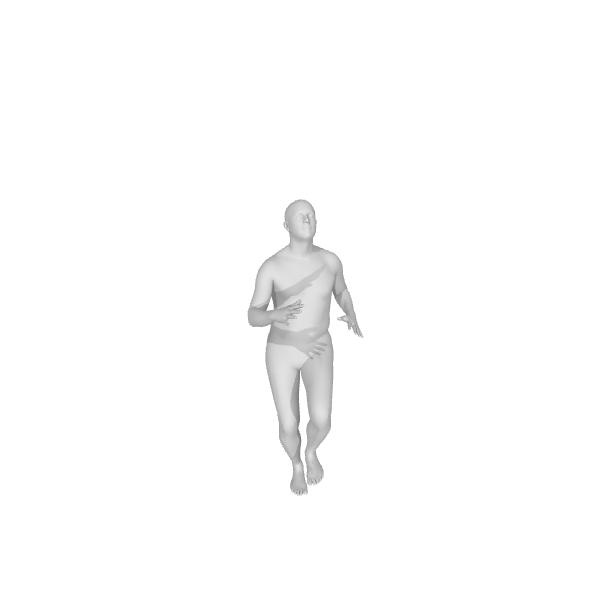
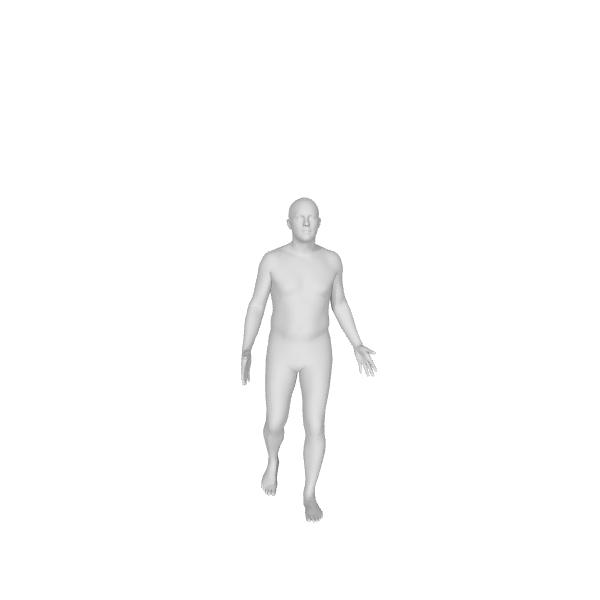
cosine network

Changed region(s): [[0.39, 0.33, 0.63, 0.87], [0.51, 0.45, 0.54, 0.48]]

diff --git a/models/model.py b/models/model.py
@@ -119,11 +119,11 @@ class CosNetwork(torch.nn.Module):
         x = F.leaky_relu(self.fc2(x))
         x = F.leaky_relu(self.fc3(x))
         x0 = x
-        x = F.leaky_relu(self.fc4(x)) + x0
+        x = torch.cos(F.leaky_relu(self.fc4(x))) + x0
         x1 = x
-        x = F.leaky_relu(self.fc5(x)) + x1
+        x = torch.cos(F.leaky_relu(self.fc5(x))) + x1
         x2 = x
-        x = F.leaky_relu(self.fc6(x)) + x2
+        x = torch.cos(F.leaky_relu(self.fc6(x))) + x2
         x = self.fc7(x)
 
         # get latent code params
@@ -137,11 +137,11 @@ class CosNetwork(torch.nn.Module):
         x = F.leaky_relu(self.dc2(x))
         x = F.leaky_relu(self.dc3(x))
         x3 = x
-        x = F.leaky_relu(self.dc4(x)) + x3
+        x = torch.cos(F.leaky_relu(self.dc4(x))) + x3
         x4 = x 
-        x = F.leaky_relu(self.dc5(x)) + x4
+        x = torch.cos(F.leaky_relu(self.dc5(x))) + x4
         x5 = x
-        x = F.leaky_relu(self.dc6(x)) + x5
+        x = torch.cos(F.leaky_relu(self.dc6(x))) + x5
         x = self.dc7(x)
 
         return x, mu, logvar
@@ -152,11 +152,11 @@ class CosNetwork(torch.nn.Module):
         x = F.leaky_relu(self.dc2(x))
         x = F.leaky_relu(self.dc3(x))
         x3 = x
-        x = F.leaky_relu(self.dc4(x)) + x3
+        x = torch.cos(F.leaky_relu(self.dc4(x))) + x3
         x4 = x 
-        x = F.leaky_relu(self.dc5(x)) + x4
+        x = torch.cos(F.leaky_relu(self.dc5(x))) + x4
         x5 = x
-        x = F.leaky_relu(self.dc6(x)) + x5
+        x = torch.cos(F.leaky_relu(self.dc6(x))) + x5
         x = self.dc7(x)
 
         return x

diff --git a/test.py b/test.py
@@ -8,7 +8,7 @@ from models.model import Network
 import matplotlib.pyplot as plt
 
 model = Network(63, 28).to(device)
-model.load_state_dict(torch.load('weights/ckpt(2).pth', map_location = 'cpu'))
+model.load_state_dict(torch.load('weights/cafe2.pth', map_location = 'cpu'))
 
 data = joblib.load('data/db/database.pt')
 pose = torch.tensor(data['pose'][98:248, 3:66]).float().to(device)
@@ -23,17 +23,17 @@ render_pose_sequence(pred, fps = 120, out_dir="renderings/pred.mp4")
 
 print('Running interpolation test.')
 
-pose0 = torch.tensor(data['pose'][[102300], 3:66]).float().to(device)
+pose0 = torch.tensor(data['pose'][[105300], 3:66]).float().to(device)
 pose1 = torch.tensor(data['pose'][[1600], 3:66]).float().to(device)
 
-sequence = torch.cat([w*pose0 + (1-w)*pose1 for w in np.linspace(0, 1, 150)])
+sequence = torch.cat([w*pose0 + (1-w)*pose1 for w in np.linspace(0, 1, 250)])
 sequence_p, _, _ = model(sequence)
 
 render_pose(pose0, out_dir = 'renderings/pose0.jpg')
 render_pose(pose1, out_dir = 'renderings/pose1.jpg')
 
-render_pose_sequence(sequence, fps = 60, out_dir="renderings/interpolation_gt.mp4")
-render_pose_sequence(sequence_p, fps = 60, out_dir="renderings/interpolation_p.mp4")
+render_pose_sequence(sequence, fps = 120, out_dir="renderings/interpolation_gt.mp4")
+render_pose_sequence(sequence_p, fps = 120, out_dir="renderings/interpolation_p.mp4")
 
 def pred_set(nx=4, ny = 4):
     n = nx*ny

diff --git a/train.py b/train.py
@@ -6,15 +6,15 @@ from utils.loaders import DatasetClass
 from config import device
 
 from torch.utils.data import DataLoader
-from models.model import Network
+from models.model import Network, CosNetwork
 from utils.trainer import train
 
 import matplotlib.pyplot as plt
 
-epochs = 200
+epochs = 50
 lr = 1e-3
 train_split = .8
-batch_size = 32
+batch_size = 4096
 
 data = joblib.load('data/db/database.pt')
 
@@ -31,12 +31,12 @@ val_data = {'pose':pose[sep:, :], 'trans':trans[sep:, :]}
 train_loader = DataLoader(DatasetClass(train_data), batch_size = batch_size, num_workers=2)
 val_loader = DataLoader(DatasetClass(val_data), batch_size = batch_size, num_workers=2)
 
-model = Network(63, 28).to(device)
+model = CosNetwork(63, 28).to(device)
 model.load_state_dict(torch.load('weights/ckpt.pth', map_location = 'cpu'))
 
-# optimizer = torch.optim.SGD(model.parameters(), lr = lr)
+optimizer = torch.optim.SGD(model.parameters(), lr = lr)
 
-optimizer = torch.optim.LBFGS(model.parameters(), lr = lr, max_iter = 50, line_search_fn='strong_wolfe')
+# optimizer = torch.optim.LBFGS(model.parameters(), lr = lr, max_iter = 50, line_search_fn='strong_wolfe')
 scheduler = torch.optim.lr_scheduler.ReduceLROnPlateau(optimizer, factor = .5, patience = 40)
 train_hist, val_hist = train(model, train_loader, val_loader, optimizer, scheduler, epochs)
 

diff --git a/utils/trainer.py b/utils/trainer.py
@@ -39,26 +39,26 @@ def fit(model, loader, optimizer, scheduler):
     running_kl = 0.0
 
     for i, data in enumerate(loader):
-        def closure():
-            optimizer.zero_grad()
+        
+        optimizer.zero_grad()
 
-            pose = data['pose'].float().to(device)
-            reconstruction, mu, logvar = model(pose)
+        pose = data['pose'].float().to(device)
+        reconstruction, mu, logvar = model(pose)
 
-            loss, rec, kl = VAELoss(pose, reconstruction, mu, logvar)
+        loss, rec, kl = VAELoss(pose, reconstruction, mu, logvar)
 
-            gloss = GradLoss(model, reconstruction, pose)
-            
-            loss  = loss + 1000*gloss
+        gloss = GradLoss(model, reconstruction, pose)
+        
+        loss  = loss + 1000*gloss
 
-            # running_loss += loss.item()
-            # running_rec += rec.item()
-            # running_kl += kl.item()
+        running_loss += loss.item()
+        running_rec += rec.item()
+        running_kl += kl.item()
 
-            loss.backward()
-            return loss
+        loss.backward()
+        
 
-        optimizer.step(closure)
+        optimizer.step()
         
     
     running_loss /= len(loader.dataset)
